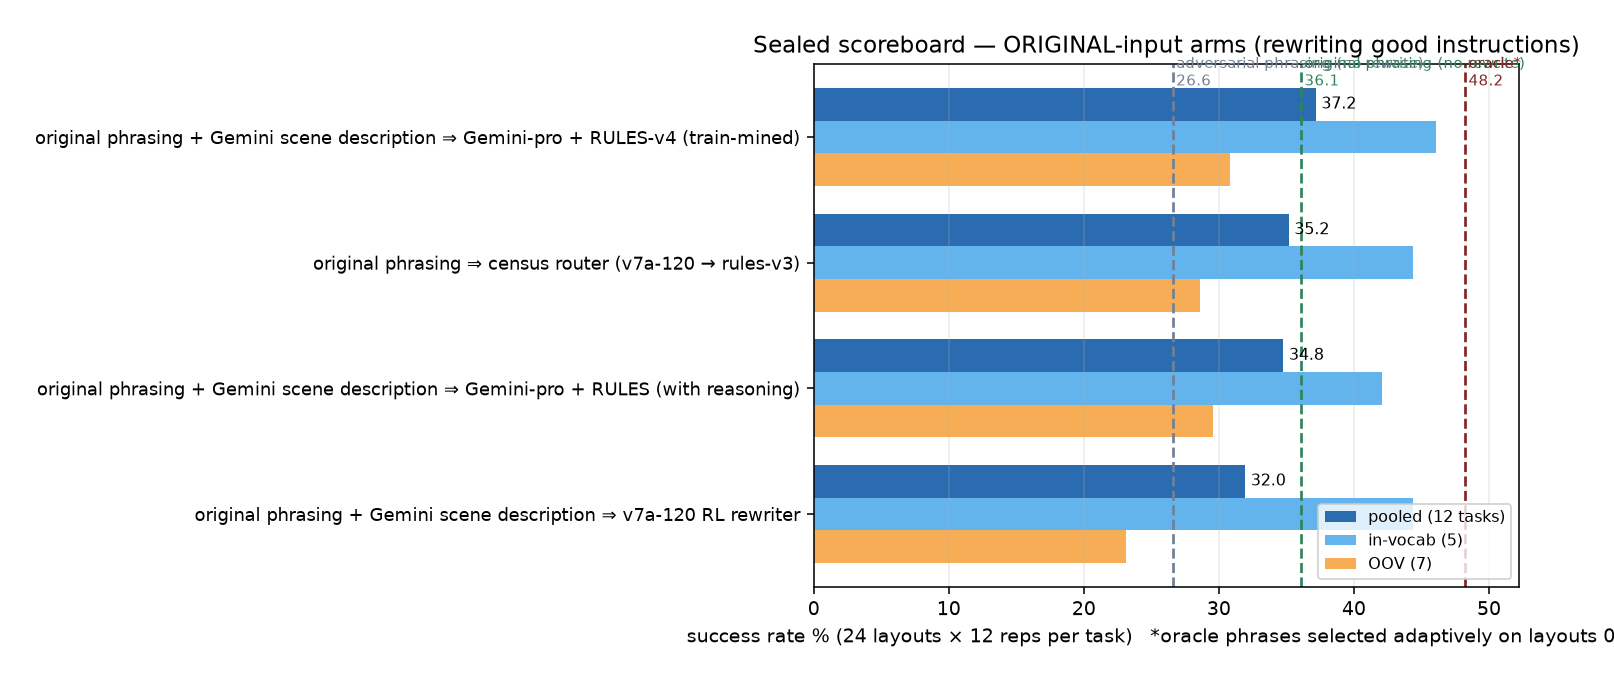
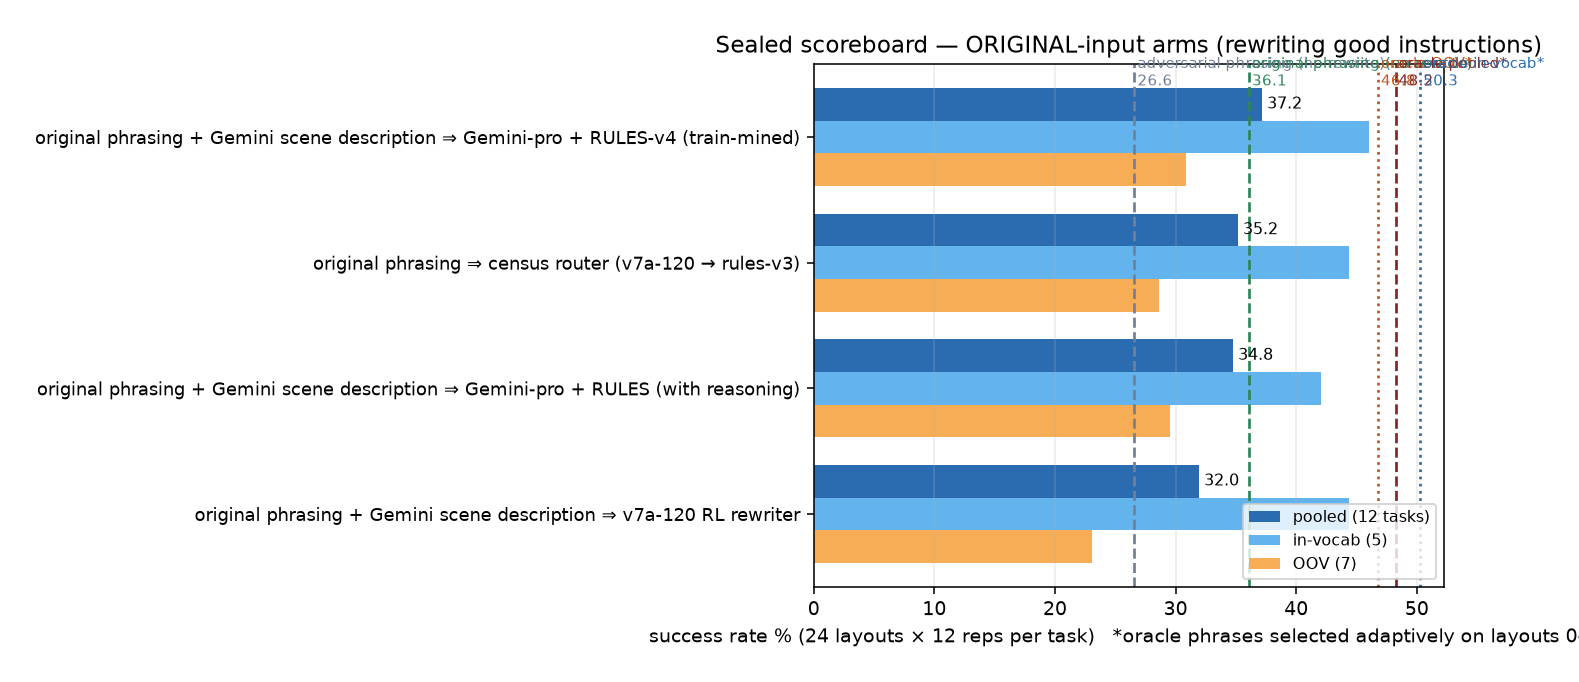
scoreboard: oracle in-vocab/OOV strata lines on both split charts

diff --git a/scripts/make_sealed_scoreboard.py b/scripts/make_sealed_scoreboard.py
@@ -134,12 +134,18 @@ def main() -> None:
             ax.text(r.pooled + 0.4, i + h, f"{r.pooled:.1f}", va="center", fontsize=8)
         ax.set_yticks(list(y))
         ax.set_yticklabels([NAME.get(a, a) for a in frame.arm], fontsize=9)
-        for val, lbl, col in [(refs.get("passthrough"), "adversarial phrasing (no rewrite)", "#718096"),
-                              (refs.get("originals"), "original phrasing (no rewrite)", "#2f855a"),
-                              (refs.get("oracle_confirmed"), "oracle*", "#822727")]:
+        orc = sb[sb.arm == "oracle_confirmed"]
+        o_iv = float(orc.in_vocab.iloc[0]) if len(orc) else None
+        o_oov = float(orc.oov.iloc[0]) if len(orc) else None
+        for val, lbl, col, ls in [
+                (refs.get("passthrough"), "adversarial phrasing (no rewrite)", "#718096", "--"),
+                (refs.get("originals"), "original phrasing (no rewrite)", "#2f855a", "--"),
+                (o_oov, "oracle OOV*", "#c05621", ":"),
+                (refs.get("oracle_confirmed"), "oracle pooled*", "#822727", "--"),
+                (o_iv, "oracle in-vocab*", "#2b6cb0", ":")]:
             if val is None:
                 continue
-            ax.axvline(val, ls="--", color=col, lw=1.4)
+            ax.axvline(val, ls=ls, color=col, lw=1.4)
             ax.text(val + 0.25, len(frame) - 0.35, f"{lbl}\n{val:.1f}", color=col, fontsize=7.5, va="top")
         ax.set_xlabel("success rate % (24 layouts × 12 reps per task)   "
                       "*oracle phrases selected adaptively on layouts 0-17")
